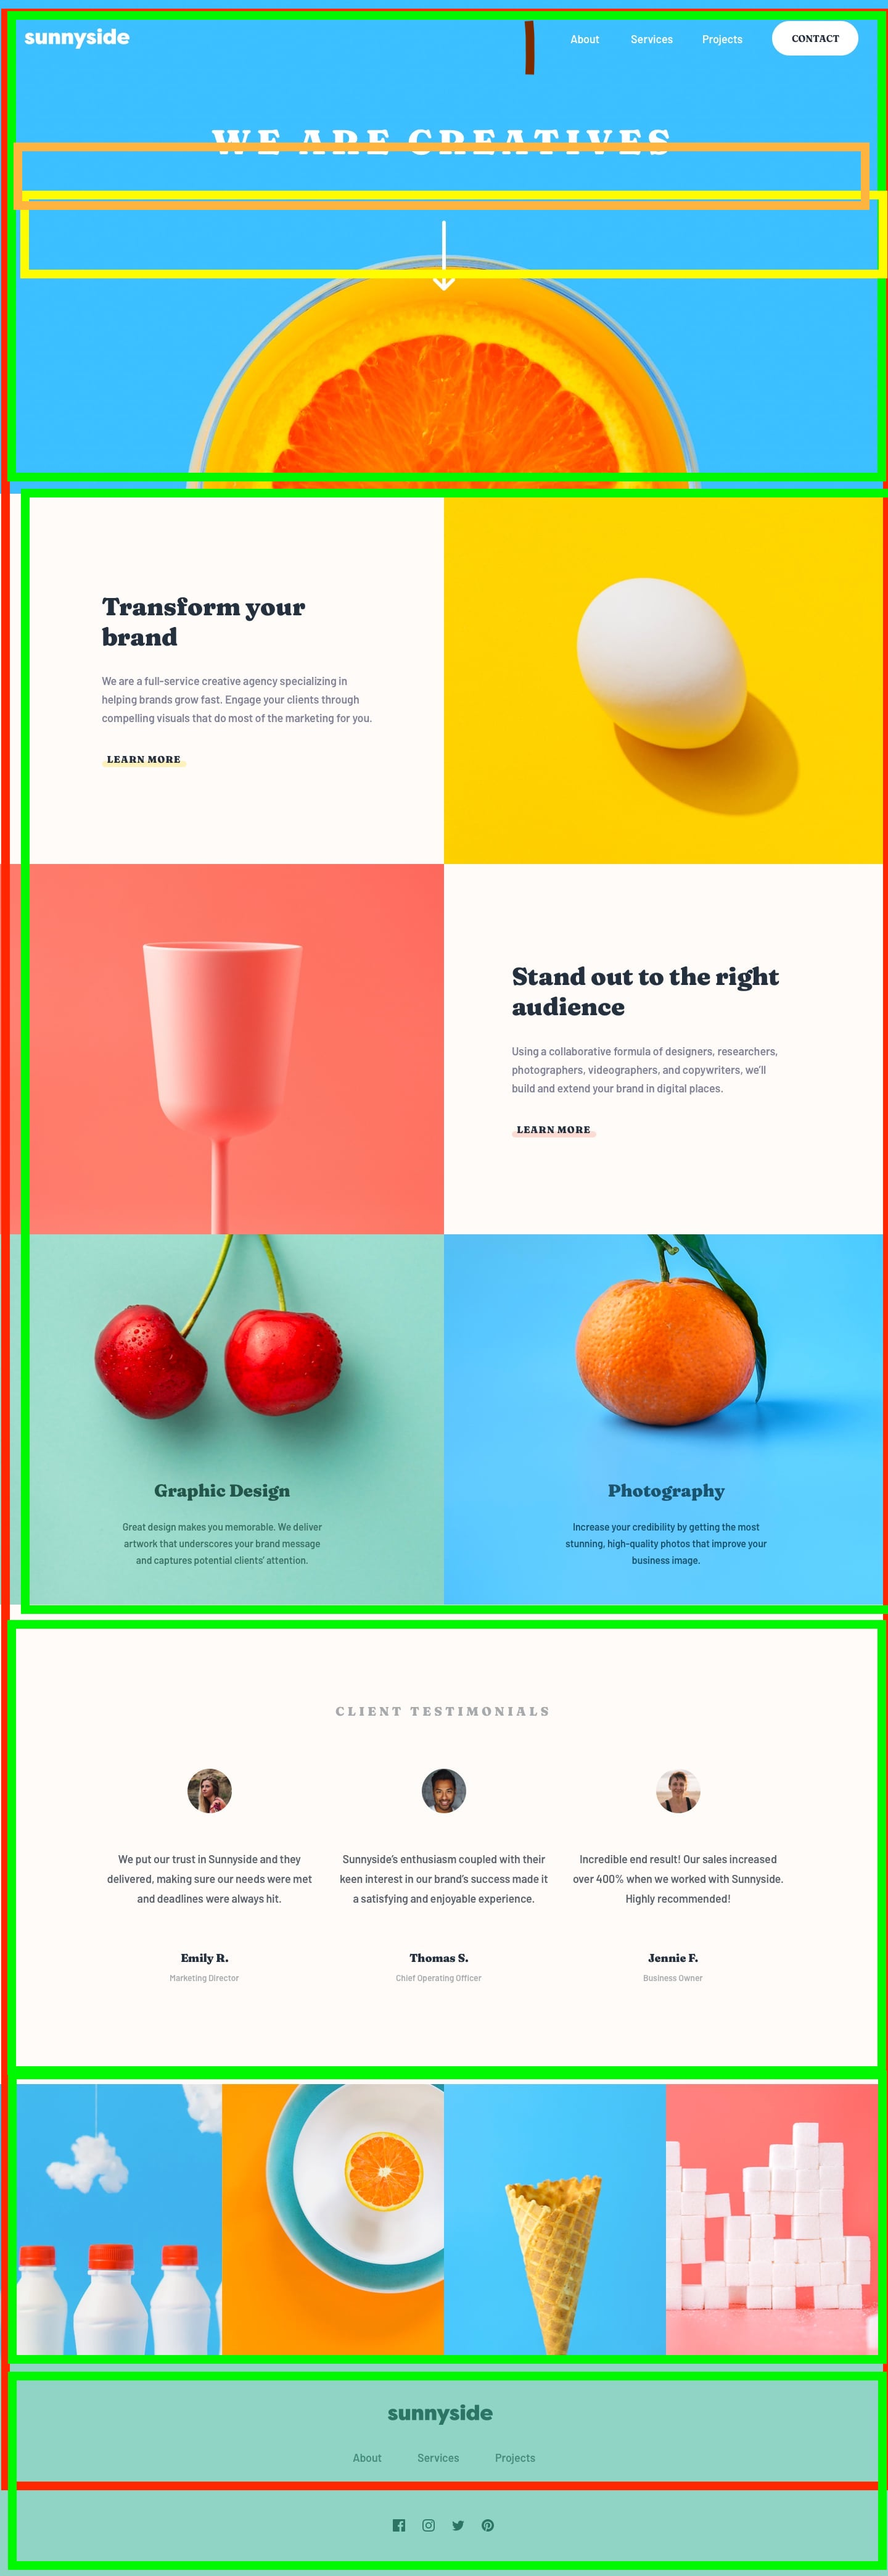
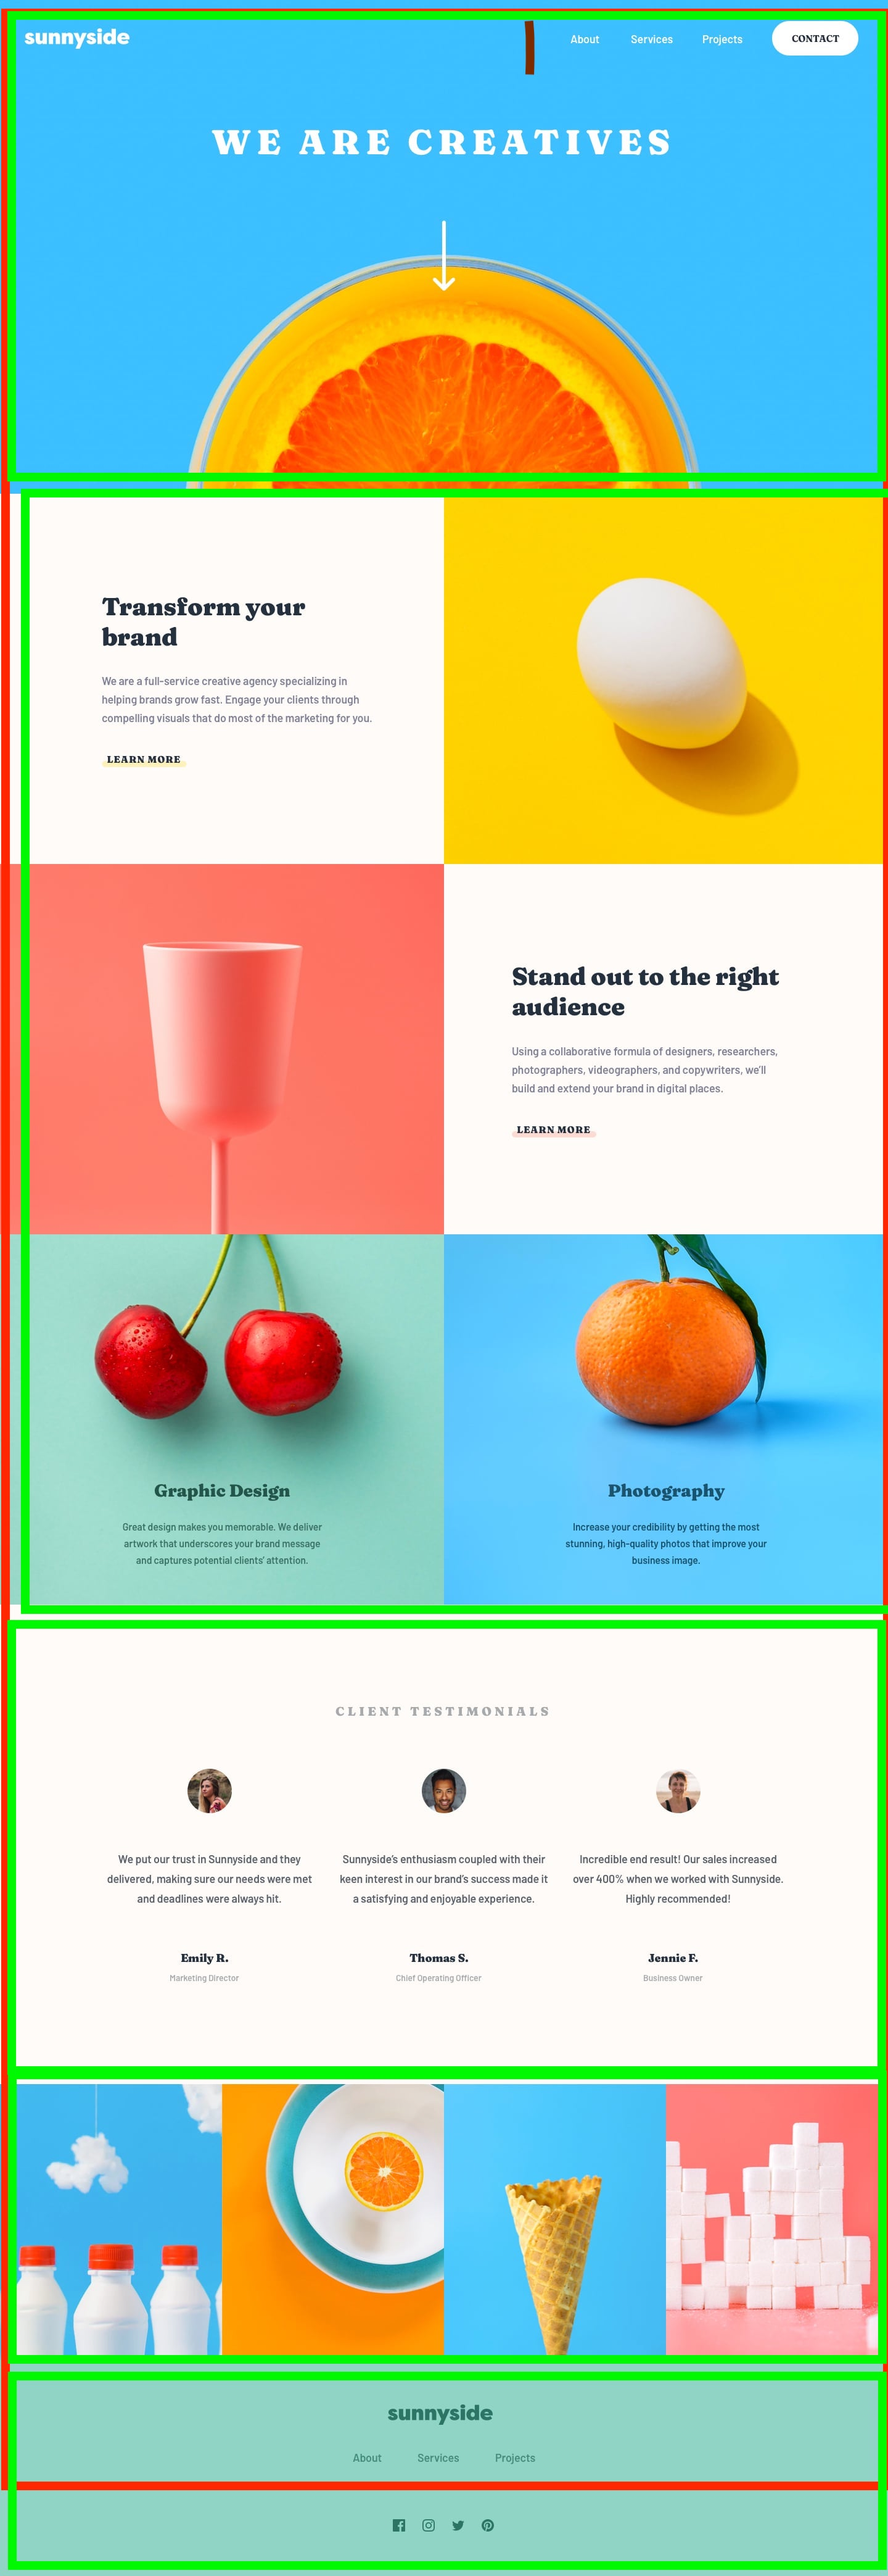
Update

Changed region(s): [[0.0, 0.0311, 1.0, 0.1246]]

diff --git a/css/style.css b/css/style.css
@@ -71,3 +71,37 @@ header
     border: none;
     text-transform: uppercase;
 }
+
+.hero 
+{
+    width: 100%;
+    height: 630px;
+    background-image: url(../images/desktop/image-header.jpg);
+    background-size: cover;
+    background-repeat: no-repeat;
+    background-position: bottom;
+}
+
+.hero-center
+{
+    width: 50%;
+    margin: auto;
+}
+
+.hero-center h1 
+{
+    font-size: 45px;
+    font-family: 'Fraunces', serif;
+    text-transform: uppercase;
+    color: var(--White);
+    text-align: center;
+    letter-spacing: 8.5px;
+    padding-top: 50px;
+}
+
+.hero-flecha img
+{
+    display: block;
+    margin: auto;
+    margin-top: 100px;
+}

diff --git a/index.html b/index.html
@@ -33,8 +33,17 @@
         </div>
       </div>
     </header>
-    <section>
-    
+
+    <section class="hero">
+      <div class="hero-center">
+        <h1>We are creatives</h1>
+
+        <div class="hero-flecha">
+          <a href="#">
+            <img src="./images/icon-arrow-down.svg" alt="">
+          </a>
+        </div>
+      </div>
     </section>
   </main>
 </body>
